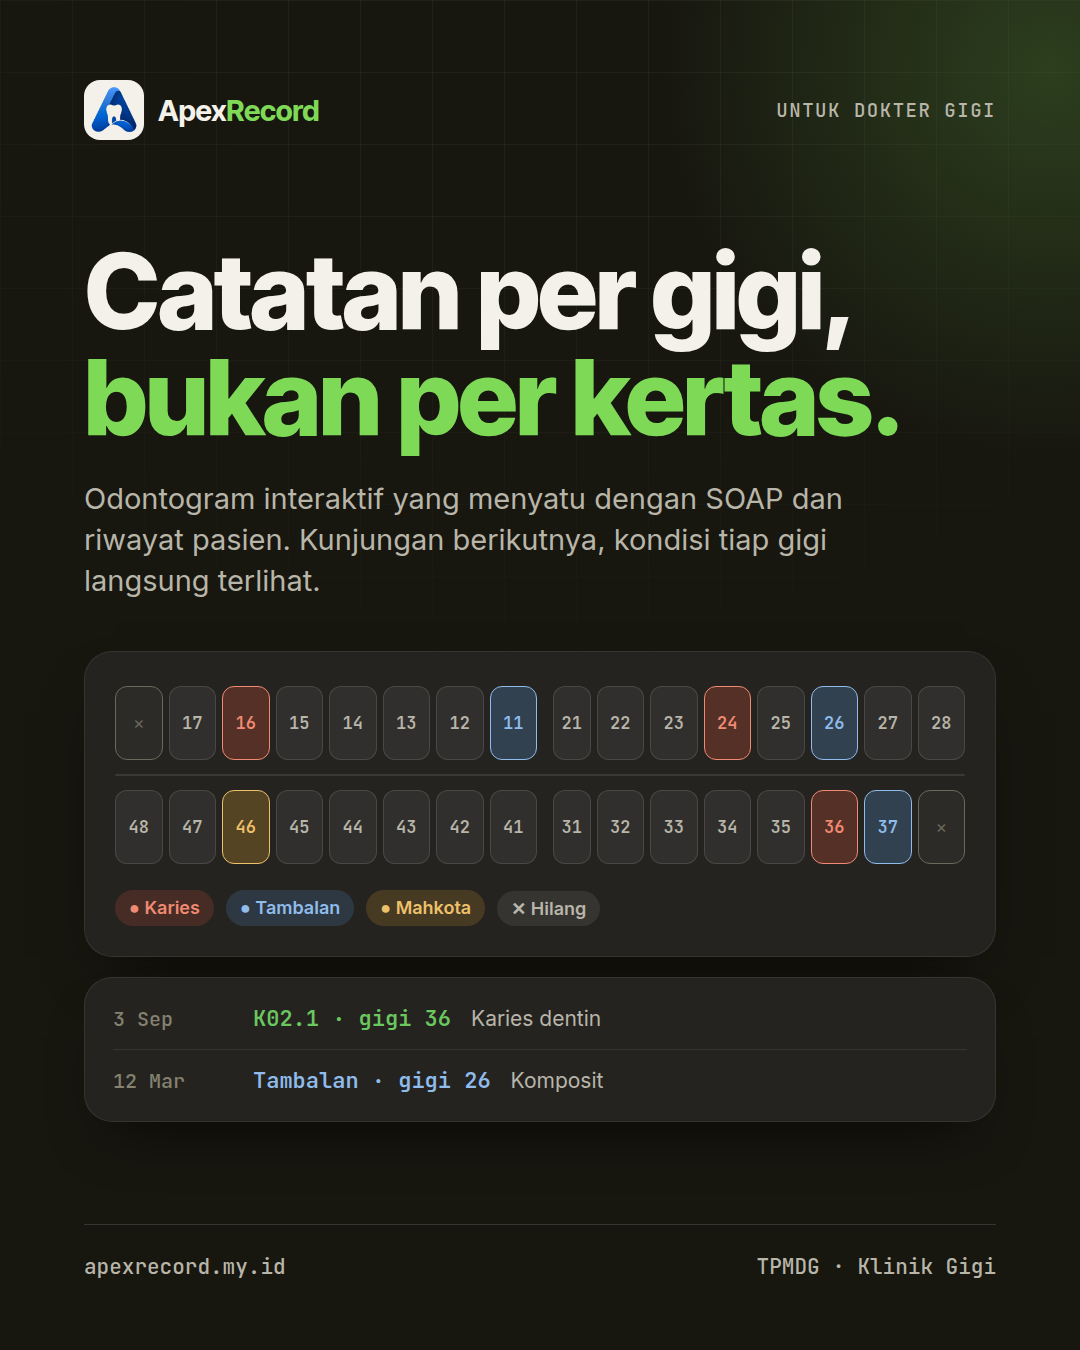
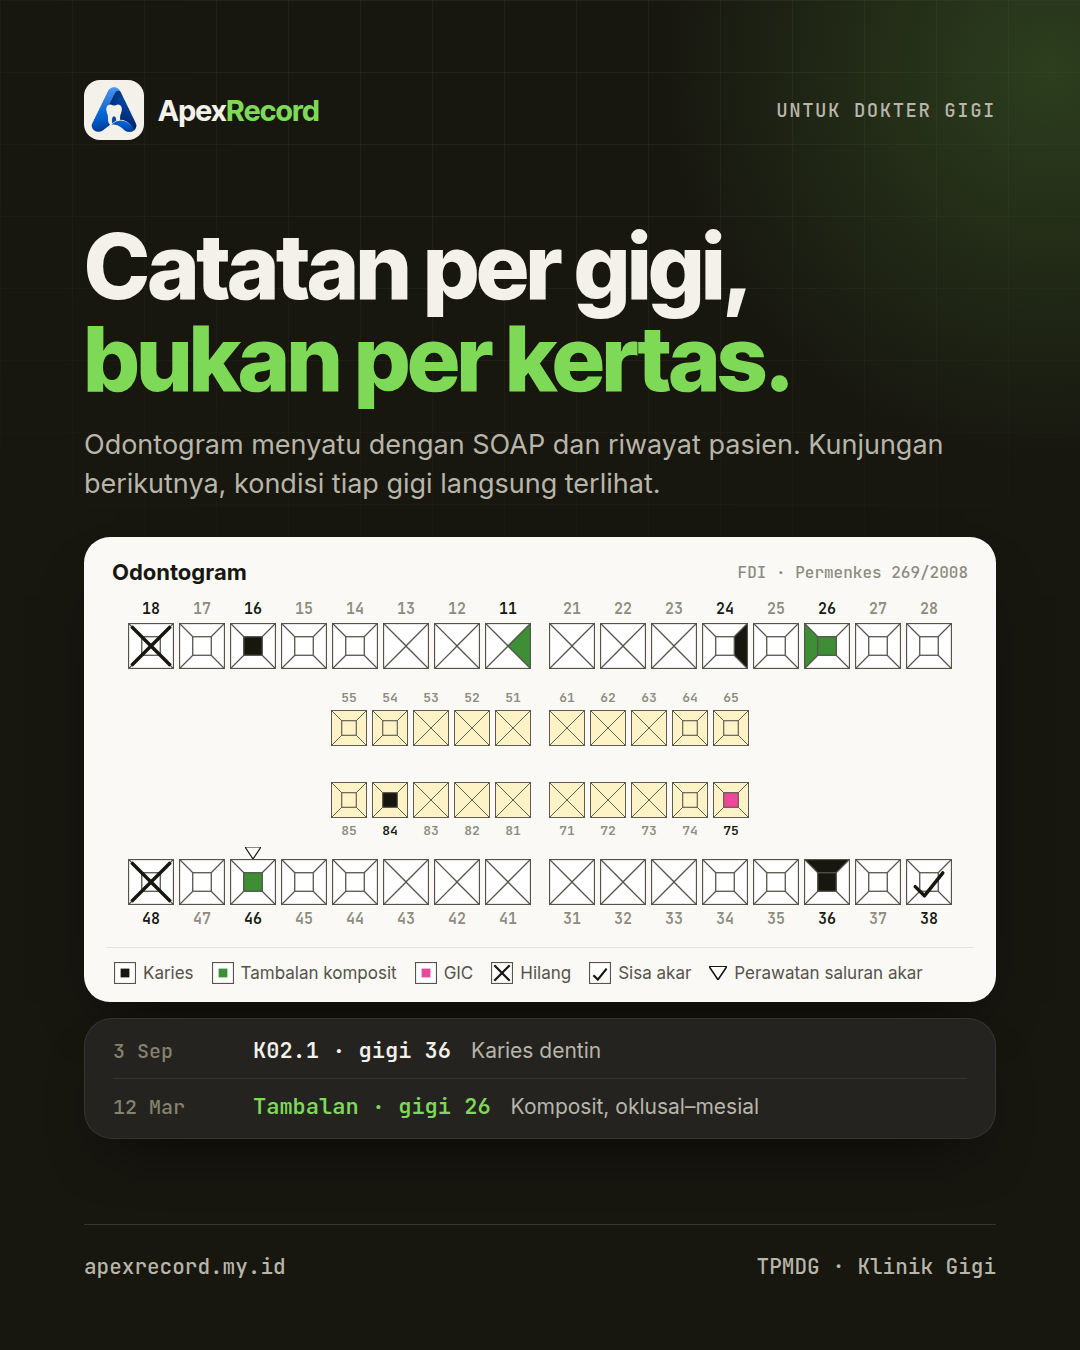
Seri 2 post 02: draw a real odontogram (FDI windowpane teeth, deciduous rows, legend)
Uses the same drawing rules as the app's ToothIcon: anterior teeth split
into 4 triangles, posterior into 4 trapezoids plus an occlusal square;
karies black, komposit green, GIC pink, missing X, root remnant check,
RCT triangle.

Claude-Session: https://claude.ai/code/session_01HYy2mnpeaAxxt6janEXAxv

diff --git a/marketing/instagram-seri2/posts.html b/marketing/instagram-seri2/posts.html
@@ -114,23 +114,19 @@
   <div class="body">
 
   <div class="z" style="margin-top:80px">
-    <h1 style="font-size:104px">Catatan per gigi,<br><span class="hl">bukan per kertas.</span></h1>
-    <p class="lead" style="margin-top:28px;max-width:860px">Odontogram interaktif yang menyatu dengan SOAP dan riwayat pasien. Kunjungan berikutnya, kondisi tiap gigi langsung terlihat.</p>
+    <h1 style="font-size:90px">Catatan per gigi,<br><span class="hl">bukan per kertas.</span></h1>
+    <p class="lead" style="margin-top:22px;max-width:880px;font-size:27px">Odontogram menyatu dengan SOAP dan riwayat pasien. Kunjungan berikutnya, kondisi tiap gigi langsung terlihat.</p>
   </div>
 
-  <div class="z card" style="margin-top:50px;padding:34px 30px 30px">
+  <div class="z" style="margin-top:34px;background:#FAF9F6;border-radius:26px;padding:22px 22px 18px;box-shadow:0 30px 60px -30px rgba(0,0,0,.7)">
+    <div class="row" style="padding:0 6px 14px;color:#17160F"><b style="font-size:22px">Odontogram</b><span class="sp"></span><span class="mono" style="font-size:16px;color:#8D8B7E">FDI · Permenkes 269/2008</span></div>
     <div id="odo"></div>
-    <div class="row" style="gap:12px;margin-top:26px;flex-wrap:wrap">
-      <span class="chip" style="background:rgba(229,87,60,.18);color:#F08A72">● Karies</span>
-      <span class="chip" style="background:rgba(91,155,224,.18);color:#8FBCEB">● Tambalan</span>
-      <span class="chip" style="background:rgba(232,169,48,.18);color:#EDC06A">● Mahkota</span>
-      <span class="chip" style="background:rgba(255,255,255,.08);color:#B8B5A9">✕ Hilang</span>
-    </div>
+    <div class="row" style="gap:18px;margin-top:18px;padding:14px 8px 0;border-top:1px solid rgba(23,22,15,.1);flex-wrap:wrap;color:#55534A;font-size:17px" id="odo-legend"></div>
   </div>
 
-  <div class="z card" style="margin-top:20px;padding:10px 28px">
-    <div class="row" style="padding:16px 0;border-bottom:1px solid rgba(255,255,255,.08);gap:20px"><span class="mono" style="font-size:20px;color:#85826F;width:120px">3 Sep</span><span class="mono" style="color:#6BC85F;font-size:22px;font-weight:600">K02.1 · gigi 36</span><span style="font-size:21px;color:#B8B5A9">Karies dentin</span></div>
-    <div class="row" style="padding:16px 0;gap:20px"><span class="mono" style="font-size:20px;color:#85826F;width:120px">12 Mar</span><span class="mono" style="color:#8FBCEB;font-size:22px;font-weight:600">Tambalan · gigi 26</span><span style="font-size:21px;color:#B8B5A9">Komposit</span></div>
+  <div class="z card" style="margin-top:16px;padding:4px 28px">
+    <div class="row" style="padding:13px 0;border-bottom:1px solid rgba(255,255,255,.08);gap:20px"><span class="mono" style="font-size:20px;color:#85826F;width:120px">3 Sep</span><span class="mono" style="color:#F3F1EA;font-size:22px;font-weight:600">K02.1 · gigi 36</span><span style="font-size:21px;color:#B8B5A9">Karies dentin</span></div>
+    <div class="row" style="padding:13px 0;gap:20px"><span class="mono" style="font-size:20px;color:#85826F;width:120px">12 Mar</span><span class="mono" style="color:#7ED957;font-size:22px;font-weight:600">Tambalan · gigi 26</span><span style="font-size:21px;color:#B8B5A9">Komposit, oklusal–mesial</span></div>
   </div>
 
   </div>
@@ -370,25 +366,59 @@
 </section>
 
 <script>
-  // Odontogram (FDI): upper 18..11 | 21..28, lower 48..41 | 31..38
-  const odo=document.getElementById('odo');
-  const state={16:'k',26:'t',36:'k',37:'t',46:'m',18:'x',38:'x',11:'t',24:'k'};
-  const col={k:['rgba(229,87,60,.25)','#F08A72'],t:['rgba(91,155,224,.25)','#8FBCEB'],m:['rgba(232,169,48,.25)','#EDC06A'],x:['rgba(255,255,255,.04)','#6b685d']};
-  function row(nums){
-    const r=document.createElement('div');r.style.cssText='display:grid;grid-template-columns:repeat(16,1fr);gap:6px';
-    nums.forEach((n,i)=>{
-      const s=state[n];const c=s?col[s]:['rgba(255,255,255,.06)','#B8B5A9'];
-      const d=document.createElement('div');
-      d.style.cssText=`height:74px;border-radius:12px;background:${c[0]};border:1.5px solid ${s?c[1]:'rgba(255,255,255,.12)'};display:flex;align-items:center;justify-content:center;font-family:'JetBrains Mono',monospace;font-size:17px;font-weight:600;color:${c[1]};${i===8?'margin-left:10px':''}`;
-      d.textContent=s==='x'?'✕':n; r.appendChild(d);
-    });
-    return r;
+  // Odontogram — same drawing rules as the app (components/odontogram/ToothIcon.tsx):
+  // anterior teeth = 4 triangles, posterior = 4 trapezoids + occlusal square.
+  const ODO_FILL={k:'#17160F',c:'#3E8E36',g:'#EC4899'};
+  // per tooth: surfaces by on-screen position (t,b,l,r,c) + marks
+  const TEETH={
+    18:{x:1}, 16:{c:'k'}, 11:{r:'c'}, 24:{r:'k'}, 26:{c:'c',l:'c'},
+    46:{c:'c',rct:1}, 36:{c:'k',t:'k'}, 38:{rrx:1}, 48:{x:1}, 75:{c:'g'}, 84:{c:'k'}
+  };
+  function toothSvg(n,size,deciduous){
+    const d=TEETH[n]||{}; const pos=n%10; const ant=deciduous?pos<=3:pos<=3;
+    const f=k=>d[k]?ODO_FILL[d[k]]:(deciduous?'#FEF3C7':'#FFFFFF');
+    const st='stroke="#55534A" stroke-width="1"';
+    let body = ant
+      ? `<path d="M0,0 L40,0 L20,20 Z" fill="${f('t')}" ${st}/><path d="M0,40 L40,40 L20,20 Z" fill="${f('b')}" ${st}/><path d="M0,0 L0,40 L20,20 Z" fill="${f('l')}" ${st}/><path d="M40,0 L40,40 L20,20 Z" fill="${f('r')}" ${st}/>`
+      : `<path d="M0,0 L40,0 L28,12 L12,12 Z" fill="${f('t')}" ${st}/><path d="M0,40 L40,40 L28,28 L12,28 Z" fill="${f('b')}" ${st}/><path d="M0,0 L12,12 L12,28 L0,40 Z" fill="${f('l')}" ${st}/><path d="M40,0 L28,12 L28,28 L40,40 Z" fill="${f('r')}" ${st}/><rect x="12" y="12" width="16" height="16" fill="${f('c')}" ${st}/>`;
+    if(d.x) body+='<line x1="3" y1="3" x2="37" y2="37" stroke="#17160F" stroke-width="3"/><line x1="37" y1="3" x2="3" y2="37" stroke="#17160F" stroke-width="3"/>';
+    if(d.rrx) body+='<path d="M8,24 L16,32 L32,12" fill="none" stroke="#17160F" stroke-width="3" stroke-linecap="round" stroke-linejoin="round"/>';
+    return `<svg width="${size}" height="${size}" viewBox="0 0 40 40"><rect x="0.5" y="0.5" width="39" height="39" fill="${deciduous?'#FEF3C7':'#fff'}"/>${body}<rect x="0.5" y="0.5" width="39" height="39" fill="none" stroke="#55534A" stroke-width="1"/></svg>`;
   }
-  const up=[18,17,16,15,14,13,12,11,21,22,23,24,25,26,27,28];
-  const lo=[48,47,46,45,44,43,42,41,31,32,33,34,35,36,37,38];
-  odo.appendChild(row(up));
-  const sep=document.createElement('div');sep.style.cssText='height:2px;background:rgba(255,255,255,.1);margin:14px 0;border-radius:2px';odo.appendChild(sep);
-  odo.appendChild(row(lo));
+  function odoRow(left,right,{upper,size,deciduous}){
+    const wrap=document.createElement('div');
+    wrap.style.cssText='display:flex;justify-content:center;gap:18px';
+    [left,right].forEach(half=>{
+      const h=document.createElement('div');h.style.cssText='display:flex;gap:5px';
+      half.forEach(n=>{
+        const d=TEETH[n]||{};
+        const cell=document.createElement('div');
+        cell.style.cssText=`display:flex;flex-direction:${upper?'column':'column-reverse'};align-items:center;gap:4px`;
+        const num=`<div style="font-family:'JetBrains Mono',monospace;font-size:${deciduous?13:15}px;font-weight:600;color:${d.x||d.rrx||Object.keys(d).length?'#17160F':'#8D8B7E'}">${n}</div>`;
+        const rct=`<div style="height:12px">${d.rct?'<svg width="16" height="12" viewBox="0 0 16 12"><path d="M8,12 L0,0 L16,0 Z" fill="#fff" stroke="#17160F" stroke-width="1.2"/></svg>':''}</div>`;
+        cell.innerHTML = upper ? num+toothSvg(n,size,deciduous)+rct : num+toothSvg(n,size,deciduous)+rct;
+        h.appendChild(cell);
+      });
+      wrap.appendChild(h);
+    });
+    return wrap;
+  }
+  const odo=document.getElementById('odo');
+  odo.style.cssText='display:flex;flex-direction:column;gap:4px;align-items:center';
+  odo.appendChild(odoRow([18,17,16,15,14,13,12,11],[21,22,23,24,25,26,27,28],{upper:true,size:46}));
+  odo.appendChild(odoRow([55,54,53,52,51],[61,62,63,64,65],{upper:true,size:36,deciduous:true}));
+  odo.appendChild(odoRow([85,84,83,82,81],[71,72,73,74,75],{upper:false,size:36,deciduous:true}));
+  odo.appendChild(odoRow([48,47,46,45,44,43,42,41],[31,32,33,34,35,36,37,38],{upper:false,size:46}));
+  const lg=document.getElementById('odo-legend');
+  const sw=(inner)=>`<svg width="22" height="22" viewBox="0 0 40 40"><rect x="1" y="1" width="38" height="38" fill="#fff" stroke="#55534A" stroke-width="2"/>${inner}</svg>`;
+  lg.innerHTML=[
+    [sw('<rect x="12" y="12" width="16" height="16" fill="#17160F"/>'),'Karies'],
+    [sw('<rect x="12" y="12" width="16" height="16" fill="#3E8E36"/>'),'Tambalan komposit'],
+    [sw('<rect x="12" y="12" width="16" height="16" fill="#EC4899"/>'),'GIC'],
+    [sw('<line x1="6" y1="6" x2="34" y2="34" stroke="#17160F" stroke-width="4"/><line x1="34" y1="6" x2="6" y2="34" stroke="#17160F" stroke-width="4"/>'),'Hilang'],
+    [sw('<path d="M8,24 L16,32 L32,12" fill="none" stroke="#17160F" stroke-width="4"/>'),'Sisa akar'],
+    ['<svg width="18" height="14" viewBox="0 0 16 12"><path d="M8,12 L0,0 L16,0 Z" fill="#fff" stroke="#17160F" stroke-width="1.4"/></svg>','Perawatan saluran akar'],
+  ].map(([i,t])=>`<span style="display:inline-flex;align-items:center;gap:7px">${i}${t}</span>`).join('');
 
   // Heatmap
   const heat=document.getElementById('heat');
